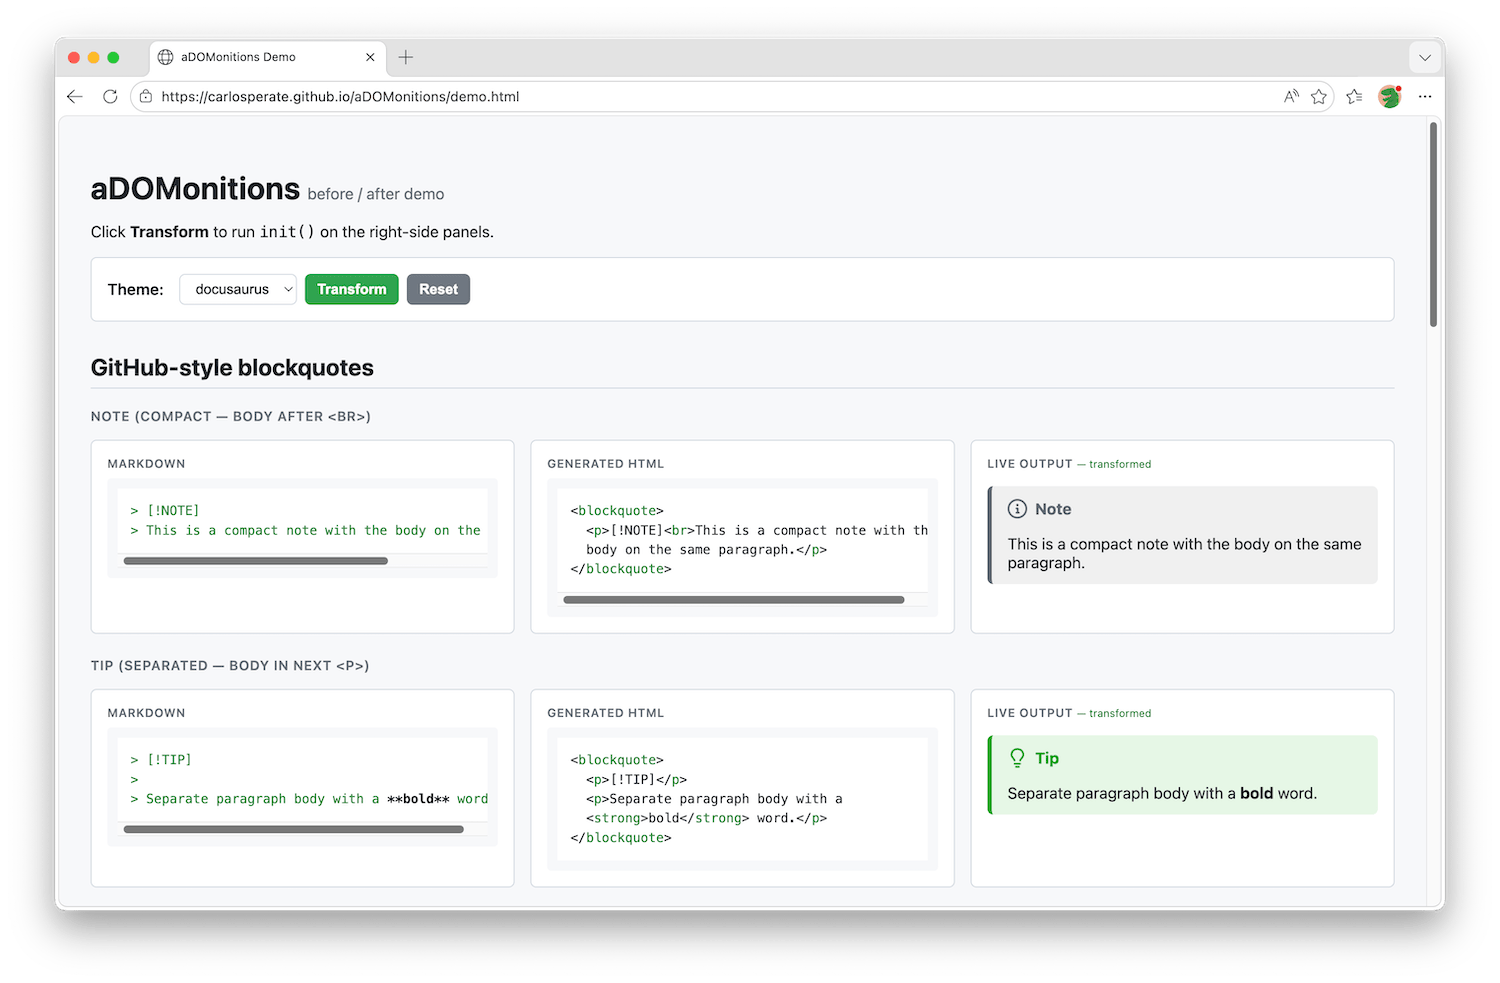
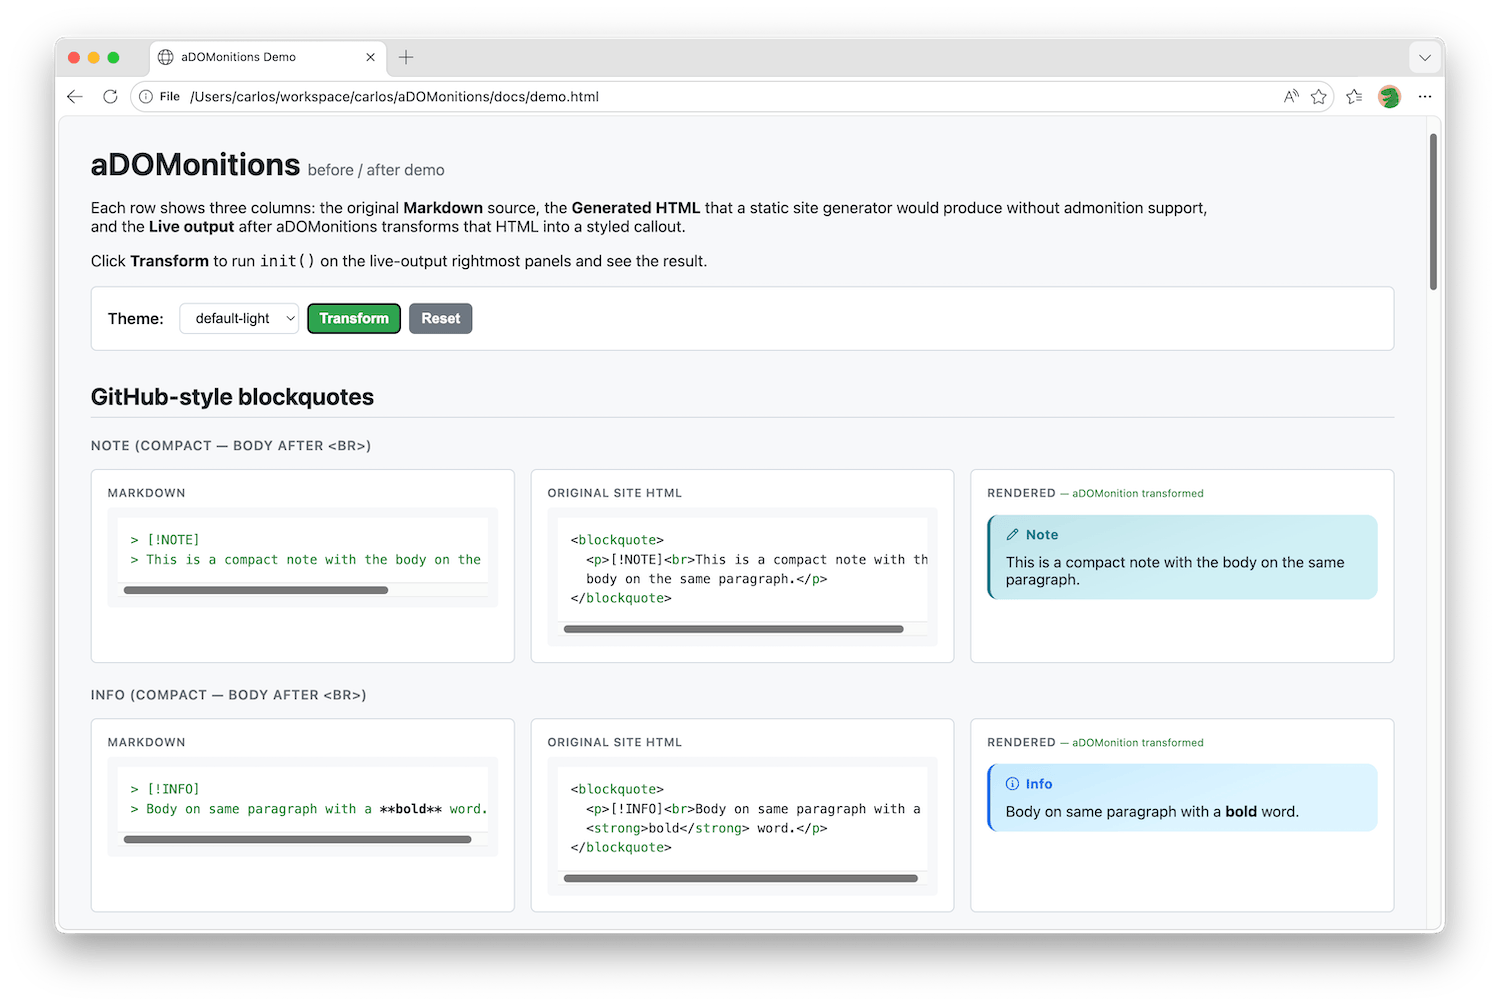
docs: Tweak demo.html, site config and update screenshot.

diff --git a/docs/demo.html b/docs/demo.html
@@ -225,7 +225,7 @@
 &gt; This is a compact note with the body on the same paragraph.</code></pre>
       </div>
       <div class="panel">
-        <div class="panel-header">Generated HTML</div>
+        <div class="panel-header">Original Site HTML</div>
         <pre><code class="language-html">&lt;blockquote&gt;
   &lt;p&gt;[!NOTE]&lt;br&gt;This is a compact note with the
   body on the same paragraph.&lt;/p&gt;
@@ -233,7 +233,7 @@
       </div>
       <div class="panel">
         <div class="panel-header">
-          Live output <span class="status">— raw</span>
+          Rendered <span class="status">— raw original html</span>
         </div>
         <div class="live gh">
           <blockquote>
@@ -254,7 +254,7 @@
 &gt; Body on same paragraph with a **bold** word.</code></pre>
       </div>
       <div class="panel">
-        <div class="panel-header">Generated HTML</div>
+        <div class="panel-header">Original Site HTML</div>
         <pre><code class="language-html">&lt;blockquote&gt;
   &lt;p&gt;[!INFO]&lt;br&gt;Body on same paragraph with a
   &lt;strong&gt;bold&lt;/strong&gt; word.&lt;/p&gt;
@@ -262,7 +262,7 @@
       </div>
       <div class="panel">
         <div class="panel-header">
-          Live output <span class="status">— raw</span>
+          Rendered <span class="status">— raw original html</span>
         </div>
         <div class="live gh">
           <blockquote>
@@ -286,7 +286,7 @@
 &gt; And includes a second paragraph as well.</code></pre>
       </div>
       <div class="panel">
-        <div class="panel-header">Generated HTML</div>
+        <div class="panel-header">Original Site HTML</div>
         <pre><code class="language-html">&lt;blockquote&gt;
   &lt;p&gt;[!TIP]&lt;/p&gt;
   &lt;p&gt;This is a separate paragraph
@@ -297,7 +297,7 @@
       </div>
       <div class="panel">
         <div class="panel-header">
-          Live output <span class="status">— raw</span>
+          Rendered <span class="status">— raw original html</span>
         </div>
         <div class="live gh">
           <blockquote>
@@ -317,7 +317,7 @@
 &gt; The API has changed in v2.0.</code></pre>
       </div>
       <div class="panel">
-        <div class="panel-header">Generated HTML</div>
+        <div class="panel-header">Original Site HTML</div>
         <pre><code class="language-html">&lt;blockquote&gt;
   &lt;p&gt;[!IMPORTANT] Breaking Change&lt;br&gt;
   The API has changed in v2.0.&lt;/p&gt;
@@ -325,7 +325,7 @@
       </div>
       <div class="panel">
         <div class="panel-header">
-          Live output <span class="status">— raw</span>
+          Rendered <span class="status">— raw original html</span>
         </div>
         <div class="live gh">
           <blockquote>
@@ -349,7 +349,7 @@
 &gt; - It cannot be undone</code></pre>
       </div>
       <div class="panel">
-        <div class="panel-header">Generated HTML</div>
+        <div class="panel-header">Original Site HTML</div>
         <pre><code class="language-html">&lt;blockquote&gt;
   &lt;p&gt;[!WARNING]&lt;/p&gt;
   &lt;p&gt;Do not run this in production.&lt;/p&gt;
@@ -361,7 +361,7 @@
       </div>
       <div class="panel">
         <div class="panel-header">
-          Live output <span class="status">— raw</span>
+          Rendered <span class="status">— raw original html</span>
         </div>
         <div class="live gh">
           <blockquote>
@@ -383,7 +383,7 @@
         <pre><code class="language-markdown">&gt; [!CAUTION] This action is *irreversible*.</code></pre>
       </div>
       <div class="panel">
-        <div class="panel-header">Generated HTML</div>
+        <div class="panel-header">Original Site HTML</div>
         <pre><code class="language-html">&lt;blockquote&gt;
   &lt;p&gt;[!CAUTION] This action is
   &lt;em&gt;irreversible&lt;/em&gt;.&lt;/p&gt;
@@ -391,7 +391,7 @@
       </div>
       <div class="panel">
         <div class="panel-header">
-          Live output <span class="status">— raw</span>
+          Rendered <span class="status">— raw original html</span>
         </div>
         <div class="live gh">
           <blockquote>
@@ -409,7 +409,7 @@
 &gt; This will destroy your database.</code></pre>
       </div>
       <div class="panel">
-        <div class="panel-header">Generated HTML</div>
+        <div class="panel-header">Original Site HTML</div>
         <pre><code class="language-html">&lt;blockquote&gt;
   &lt;p&gt;[!DANGER]&lt;/p&gt;
   &lt;p&gt;This will destroy your database.&lt;/p&gt;
@@ -417,7 +417,7 @@
       </div>
       <div class="panel">
         <div class="panel-header">
-          Live output <span class="status">— raw</span>
+          Rendered <span class="status">— raw original html</span>
         </div>
         <div class="live gh">
           <blockquote>
@@ -441,7 +441,7 @@ This is a Docusaurus-style note admonition.
 :::</code></pre>
       </div>
       <div class="panel">
-        <div class="panel-header">Generated HTML</div>
+        <div class="panel-header">Original Site HTML</div>
         <pre><code class="language-html">&lt;p&gt;:::note&lt;/p&gt;
 &lt;p&gt;This is a Docusaurus-style note
 admonition.&lt;/p&gt;
@@ -449,7 +449,7 @@ admonition.&lt;/p&gt;
       </div>
       <div class="panel">
         <div class="panel-header">
-          Live output <span class="status">— raw</span>
+          Rendered <span class="status">— raw original html</span>
         </div>
         <div class="live docu">
           <p>:::note</p>
@@ -468,7 +468,7 @@ Admonitions support `inline code` and [links](#).
 :::</code></pre>
       </div>
       <div class="panel">
-        <div class="panel-header">Generated HTML</div>
+        <div class="panel-header">Original Site HTML</div>
         <pre><code class="language-html">&lt;p&gt;:::info Did you know?&lt;/p&gt;
 &lt;p&gt;Admonitions support
 &lt;code&gt;inline code&lt;/code&gt; and
@@ -477,7 +477,7 @@ Admonitions support `inline code` and [links](#).
       </div>
       <div class="panel">
         <div class="panel-header">
-          Live output <span class="status">— raw</span>
+          Rendered <span class="status">— raw original html</span>
         </div>
         <div class="live docu">
           <p>:::info Did you know?</p>
@@ -499,7 +499,7 @@ Use `theme: null` to bring your own CSS.
 :::</code></pre>
       </div>
       <div class="panel">
-        <div class="panel-header">Generated HTML</div>
+        <div class="panel-header">Original Site HTML</div>
         <pre><code class="language-html">&lt;p&gt;:::tip&lt;/p&gt;
 &lt;p&gt;Use &lt;code&gt;theme: null&lt;/code&gt;
 to bring your own CSS.&lt;/p&gt;
@@ -507,7 +507,7 @@ to bring your own CSS.&lt;/p&gt;
       </div>
       <div class="panel">
         <div class="panel-header">
-          Live output <span class="status">— raw</span>
+          Rendered <span class="status">— raw original html</span>
         </div>
         <div class="live docu">
           <p>:::tip</p>
@@ -526,14 +526,14 @@ This is a critical piece of information.
 :::</code></pre>
       </div>
       <div class="panel">
-        <div class="panel-header">Generated HTML</div>
+        <div class="panel-header">Original Site HTML</div>
         <pre><code class="language-html">&lt;p&gt;:::important&lt;/p&gt;
 &lt;p&gt;This is a critical piece of information.&lt;/p&gt;
 &lt;p&gt;:::&lt;/p&gt;</code></pre>
       </div>
       <div class="panel">
         <div class="panel-header">
-          Live output <span class="status">— raw</span>
+          Rendered <span class="status">— raw original html</span>
         </div>
         <div class="live docu">
           <p>:::important</p>
@@ -555,7 +555,7 @@ Be careful with the following:
 :::</code></pre>
       </div>
       <div class="panel">
-        <div class="panel-header">Generated HTML</div>
+        <div class="panel-header">Original Site HTML</div>
         <pre><code class="language-html">&lt;p&gt;:::warning&lt;/p&gt;
 &lt;p&gt;Be careful with the following:&lt;/p&gt;
 &lt;ul&gt;
@@ -566,7 +566,7 @@ Be careful with the following:
       </div>
       <div class="panel">
         <div class="panel-header">
-          Live output <span class="status">— raw</span>
+          Rendered <span class="status">— raw original html</span>
         </div>
         <div class="live docu">
           <p>:::warning</p>
@@ -589,14 +589,14 @@ Proceed carefully — this cannot be undone.
 :::</code></pre>
       </div>
       <div class="panel">
-        <div class="panel-header">Generated HTML</div>
+        <div class="panel-header">Original Site HTML</div>
         <pre><code class="language-html">&lt;p&gt;:::caution&lt;/p&gt;
 &lt;p&gt;Proceed carefully — this cannot be undone.&lt;/p&gt;
 &lt;p&gt;:::&lt;/p&gt;</code></pre>
       </div>
       <div class="panel">
         <div class="panel-header">
-          Live output <span class="status">— raw</span>
+          Rendered <span class="status">— raw original html</span>
         </div>
         <div class="live docu">
           <p>:::caution</p>
@@ -615,7 +615,7 @@ This will destroy your database. Proceed with extreme caution.
 :::</code></pre>
       </div>
       <div class="panel">
-        <div class="panel-header">Generated HTML</div>
+        <div class="panel-header">Original Site HTML</div>
         <pre><code class="language-html">&lt;p&gt;:::danger&lt;/p&gt;
 &lt;p&gt;This will destroy your database.
 Proceed with extreme caution.&lt;/p&gt;
@@ -623,7 +623,7 @@ Proceed with extreme caution.&lt;/p&gt;
       </div>
       <div class="panel">
         <div class="panel-header">
-          Live output <span class="status">— raw</span>
+          Rendered <span class="status">— raw original html</span>
         </div>
         <div class="live docu">
           <p>:::danger</p>
@@ -672,7 +672,9 @@ Proceed with extreme caution.&lt;/p&gt;
 
       function setStatus(isTransformed) {
         statusEls.forEach((el) => {
-          el.textContent = isTransformed ? "— transformed" : "— raw";
+          el.textContent = isTransformed
+            ? "— aDOMonition transformed"
+            : "— raw original html";
           el.className = "status " + (isTransformed ? "transformed" : "raw");
         });
       }

diff --git a/src/types.ts b/src/types.ts
@@ -47,7 +47,7 @@ export interface ADOMonitionsConfig {
   triggerStyle?: TriggerStyle;
   /** Output HTML class names. */
   classes?: ADOMonitionsClasses;
-  /** Bundled CSS theme to inject. null = bring your own. Default: 'github-light' */
+  /** Bundled CSS theme to inject. null = bring your own. Default: 'default-light' */
   theme?: ThemeName | null;
 }
 
